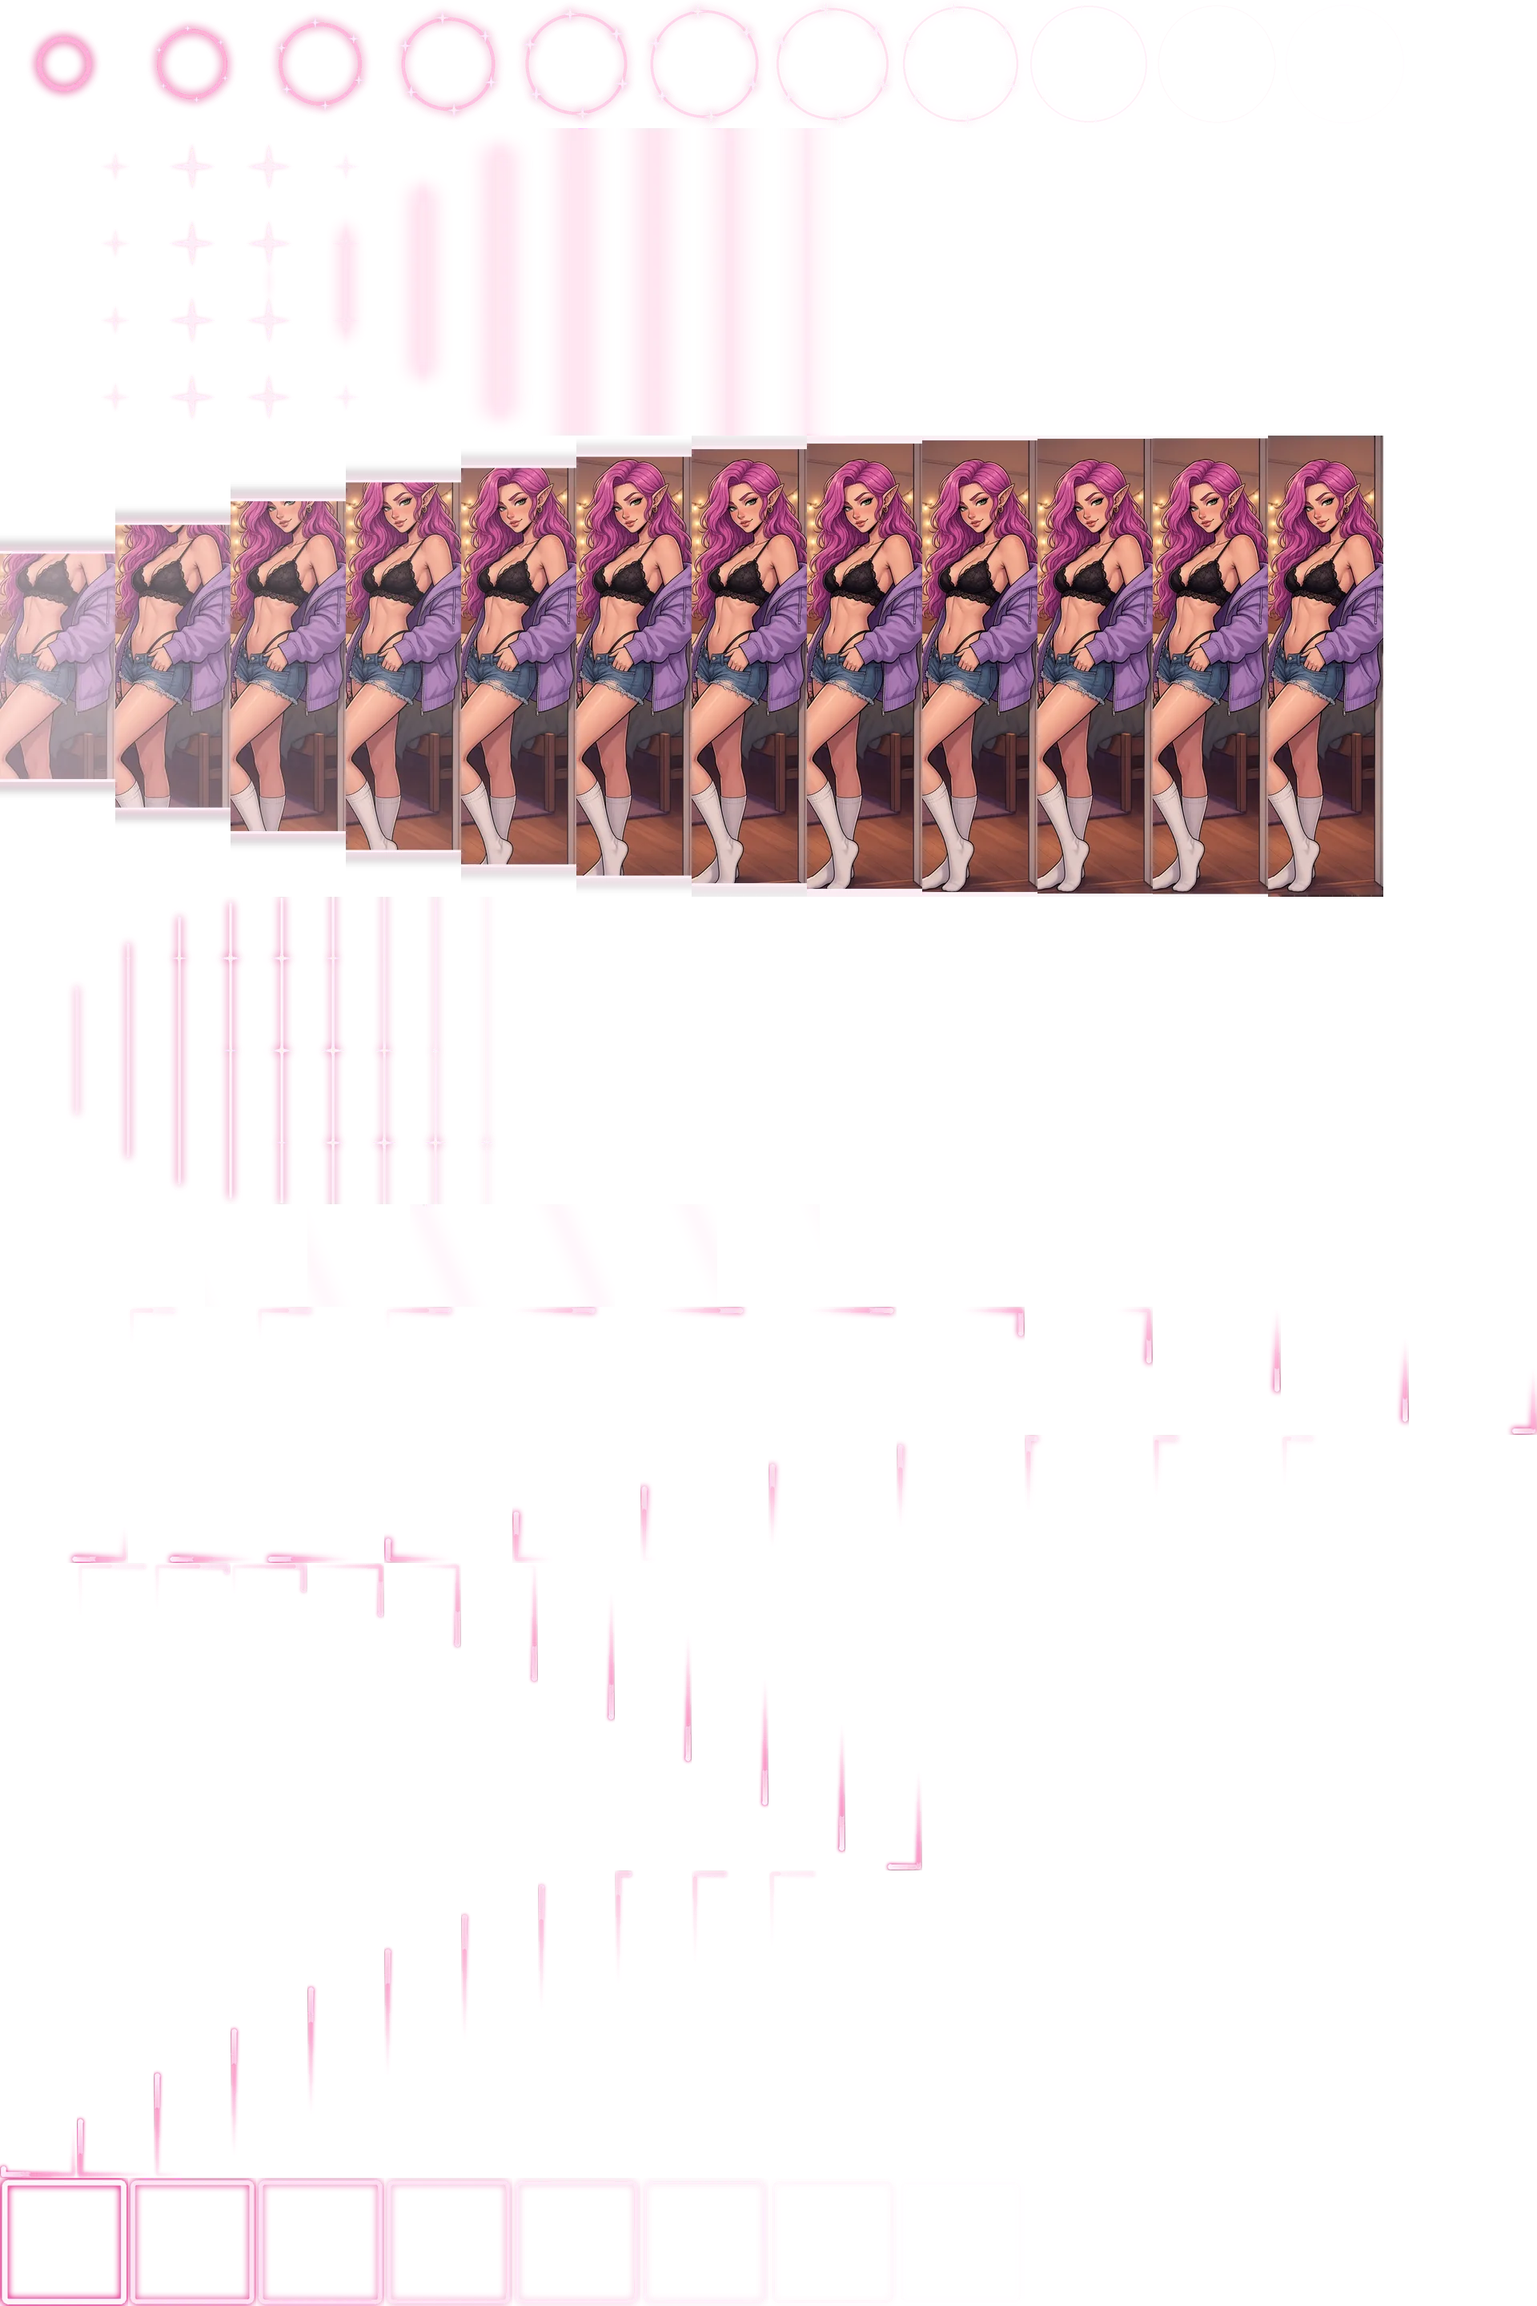
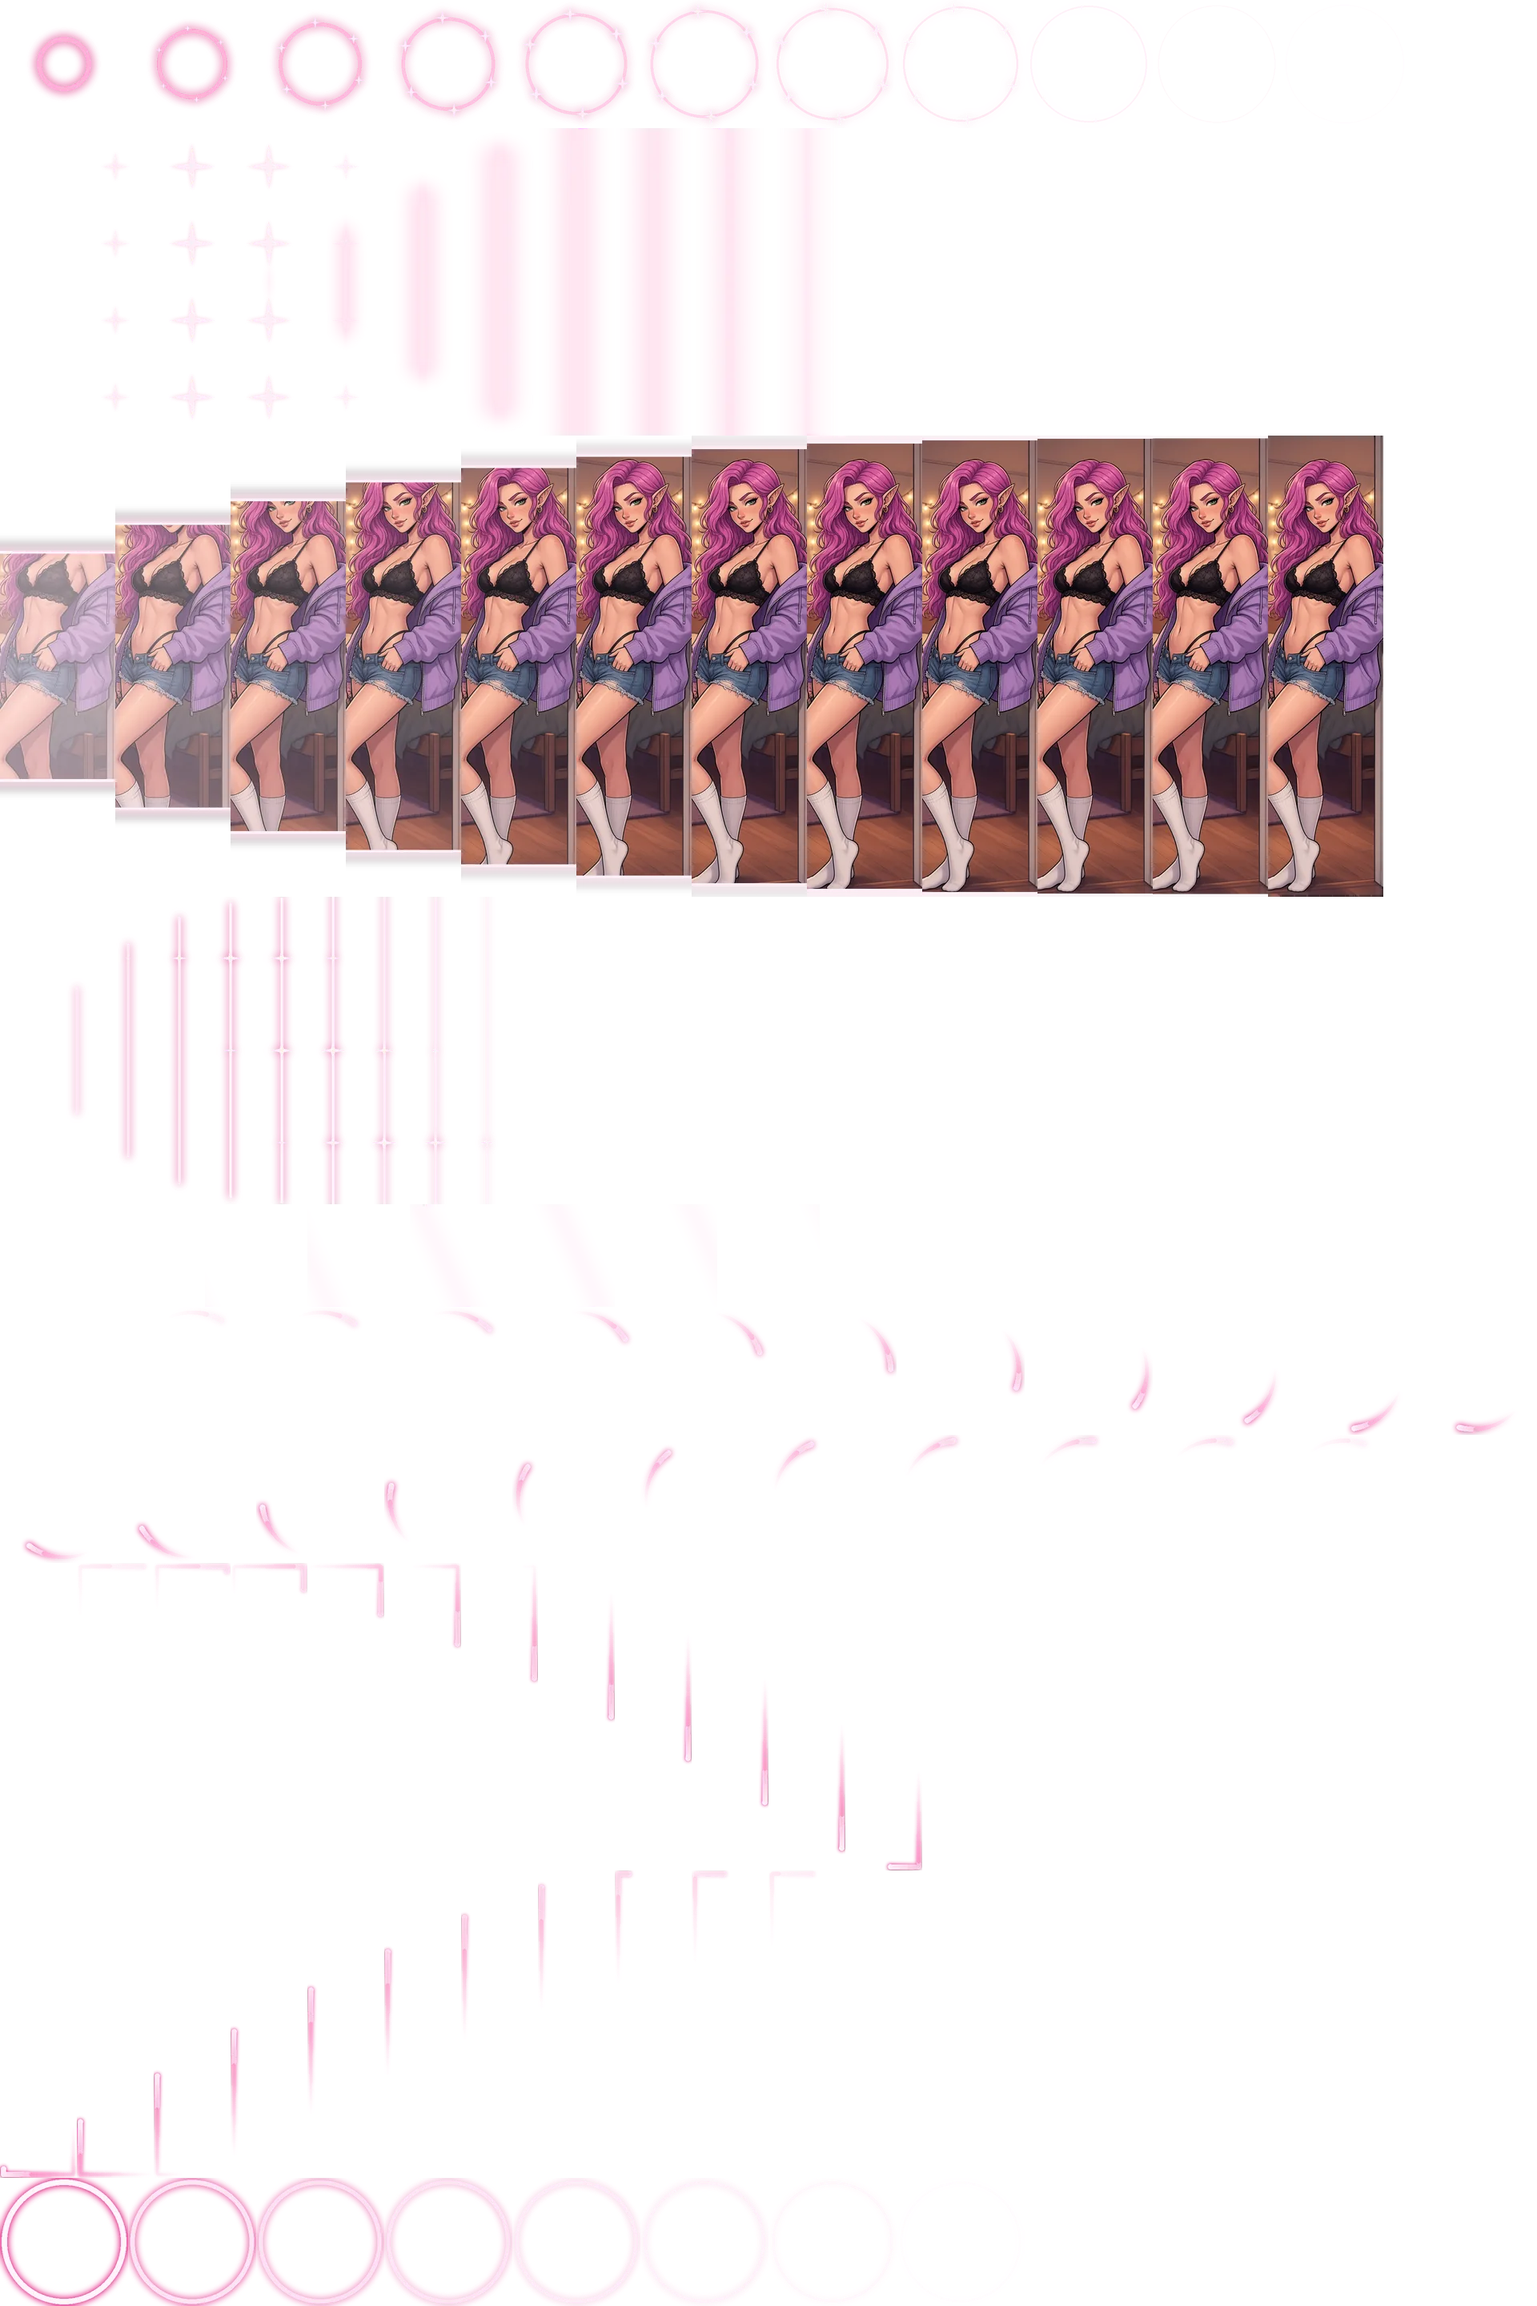
elfhaus pass4: wild frame + wild transform sprites
- bright round wild frame (magenta core, white highlight, soft outer pink; static gradient ring, no filter/shadow
  animation), round locked ring to match the round symbols
- fx_wild wired: land flash + ring/sparkles on every newly landed wild (reveal + respin), stack formation light
  column, full-reel expand unfurl + comet, merge seams + sweep
- one shared shimmer scheduler (a comet round one visible wild every ~1.6 s, max 2 at once, paused while spinning,
  during win lines, or when hidden); wshine/wflash regenerated as circular paths

diff --git a/frontend/apps/elfhaus/src/game/wildfx.ts b/frontend/apps/elfhaus/src/game/wildfx.ts
@@ -1,0 +1,61 @@
+// Wild moments (fx_wild sheet, gen_fx_wild.py). Every effect is a pre-baked sprite (glow baked in) on a pooled
+// canvas; only transform/opacity are animated by CSS, nothing animates filter or shadow.
+//   wildLand(cell)   : the round frame flares (wflash) + a soft ring and six sparkles (wland) when a wild lands
+//   stackForm(reel)  : four row flashes pull into one light column as a reel fills with wilds
+//   wfExpand(ov)     : the full-reel wild unfurls from the middle rows (bakes the real WF art)
+//   mergeFx(reels)   : light seams close between adjacent full reels + one soft sweep over the merged group
+//   shimmer          : ONE shared scheduler; every ~1.6 s the next visible wild gets a single comet round its
+//                      frame (so each wild shimmers every few seconds), at most 2 at once, paused while the reels
+//                      spin, during win lines, or when the tab is hidden
+import { play, hasSheet } from './sprite';
+import { S, $ } from './ui';
+import { isSpinning } from './reels';
+import { linesActive } from './winlines';
+const ID = 'fx_wild';
+const ok = () => hasSheet(ID);
+
+export function wildLand(cell: HTMLElement) {
+	if (!ok()) return;
+	cell.classList.remove('wLand'); void cell.offsetWidth; cell.classList.add('wLand');
+	play(ID, 'wflash', cell, { cls: 'wfx wfxRing' });
+	play(ID, 'wland', cell, { cls: 'wfx wfxBurst', onEnd: () => cell.classList.remove('wLand') });
+}
+function column(r: number) {
+	const d = document.createElement('div'); d.className = 'wfxCol';
+	d.style.left = r * S.cell + 'px'; d.style.width = S.cell + 'px';
+	$('#board').appendChild(d); return d;
+}
+export function stackForm(reel: number) {
+	if (!ok()) return Promise.resolve();
+	const host = column(reel);
+	return new Promise<void>((res) => { if (!play(ID, 'stackform', host, { cls: 'wfx', onEnd: () => { host.remove(); res(); } })) { host.remove(); res(); } });
+}
+export function wfExpand(ov: HTMLElement | null) {
+	if (!ok() || !ov) return;
+	ov.classList.add('wfxOpen');
+	play(ID, 'wfexpand', ov, { cls: 'wfx wfxIn', onEnd: () => ov.classList.remove('wfxOpen') });
+	play(ID, 'wshineT', ov, { cls: 'wfx wfxIn wfxTop', delay: 420 });
+}
+export function mergeFx(reels: number[]) {
+	if (!ok() || reels.length < 2) return;
+	const lo = Math.min(...reels), hi = Math.max(...reels);
+	for (let r = lo + 1; r <= hi; r++) { const h = column(r); h.classList.add('seam'); play(ID, 'seam', h, { cls: 'wfx', onEnd: () => h.remove() }); }
+	const g = column(lo); g.style.width = (hi - lo + 1) * S.cell + 'px';
+	play(ID, 'msweep', g, { cls: 'wfx', delay: 180, onEnd: () => g.remove() });
+}
+
+// ---- shared shimmer scheduler ----
+let timer = 0, turn = 0;
+function visibleWilds(): HTMLElement[] {
+	const singles = [...document.querySelectorAll<HTMLElement>('#cells .cell.wild')].filter((c) => c.style.visibility !== 'hidden' && !c.classList.contains('dim') && !c.querySelector('canvas.wfxShine'));
+	const fulls = [...document.querySelectorAll<HTMLElement>('#overlays .ov.full')].filter((o) => !o.querySelector('canvas.wfxShine'));
+	return [...singles, ...fulls];
+}
+function step() {
+	timer = window.setTimeout(step, S.turbo ? 1200 : 1600);
+	if (document.hidden || isSpinning() || linesActive() || document.querySelectorAll('canvas.wfxShine').length >= 2) return;
+	const w = visibleWilds(); if (!w.length || !ok()) return;
+	const el = w[turn++ % w.length], full = el.classList.contains('ov');
+	play(ID, full ? 'wshineT' : 'wshine', el, { cls: 'wfx wfxShine' + (full ? ' wfxIn wfxTop' : ' wfxRing') });
+}
+export function startShimmer() { if (!timer) timer = window.setTimeout(step, 2000); }

diff --git a/frontend/apps/elfhaus/src/game/bookEventHandlerMap.ts b/frontend/apps/elfhaus/src/game/bookEventHandlerMap.ts
@@ -9,6 +9,7 @@ import { mxBurst, lockFx, clearSymWins } from './fx';
 import { timing, isSpinning, startSpin, markStopped, sinceStart, sleep, spinCells, stopReel } from './reels';
 import { $, S, k, bet, wait, banner, toast, hideToast, bigWin, setWinMeter, clearLines, renderCell, renderOverlays, cellEl, setGem, ovMx, symHTML } from './ui';
 import { playWins } from './winlines';
+import { wildLand, stackForm, wfExpand, mergeFx } from './wildfx';
 import { grab, combineInto } from './combine';
 
 const TL = (t: Tier) => TIER_LABEL[t].toUpperCase();
@@ -49,6 +50,7 @@ export const bookEventHandlerMap: Handlers = {
 					const locked = lockedSingles.has(k(r, row));
 					renderCell(r, row, null);
 					cellEl(r, row).classList.toggle('locked', locked);
+					if (!locked && !fullLocked.has(r) && S.sym[r][row] === 'W') wildLand(cellEl(r, row));
 				}
 			}));
 		}
@@ -58,10 +60,12 @@ export const bookEventHandlerMap: Handlers = {
 	},
 	async stackComplete(ev) {
 		// the four wild values ADD into the stack's value (SPEC: sum of the 4 cell values)
+		if (!ev.instant) await stackForm(ev.reel);
 		const flying = grab([0, 1, 2, 3].map((row) => cellEl(ev.reel, row).querySelector<HTMLElement>('.mx')));
 		S.full.set(ev.reel, ev.value);
 		for (let row = 0; row < ROWS; row++) { S.vals.delete(k(ev.reel, row)); cellEl(ev.reel, row).style.visibility = 'hidden'; }
 		renderOverlays(ev.reel);
+		if (!ev.instant) wfExpand(document.querySelector<HTMLElement>(`.ov.full[data-reel="${ev.reel}"]`));
 		await combineInto(flying, ovMx(ev.reel));
 		await wait(250);
 	},
@@ -71,6 +75,7 @@ export const bookEventHandlerMap: Handlers = {
 		const flights = fresh.map((g) => ({ g, c: grab(g.reels.map((r) => ovMx(r))) }));
 		S.groups = ev.groups.map((g) => ({ reels: [...g.reels], values: [...g.values], product: g.product }));
 		renderOverlays(fresh.length > 0);
+		fresh.forEach((g) => mergeFx(g.reels));
 		await Promise.all(flights.map(({ g, c }) => combineInto(c, ovMx(g.reels[0]))));
 		if (fresh.length) await wait(250);
 	},
@@ -121,7 +126,7 @@ export const bookEventHandlerMap: Handlers = {
 			if (i) at += T.gap;
 			const rows = ev.newSymbols.filter((s) => s.reel === r).map((s) => s.row);
 			const finals = Array.from({ length: ROWS }, (_, row) => symHTML(S.sym[r][row], S.vals.get(k(r, row))));
-			return stopReel(r, at, finals, () => rows.forEach((row) => renderCell(r, row, null)));
+			return stopReel(r, at, finals, () => rows.forEach((row) => { renderCell(r, row, null); if (S.sym[r][row] === 'W') wildLand(cellEl(r, row)); }));
 		}));
 		markStopped();
 		await sleep(T.land);

diff --git a/frontend/apps/elfhaus/static/elfhaus.css b/frontend/apps/elfhaus/static/elfhaus.css
@@ -607,3 +607,21 @@ body.short:not(.portrait) #buyCards{margin:8px 0}
 .pl rect.on{fill:#C42A78;stroke:#F48FC0}
 .pl polyline{fill:none;stroke:#FFE6F2;stroke-width:1.6;stroke-linejoin:round;stroke-linecap:round;opacity:.9;filter:drop-shadow(0 0 1.5px #F06AAE)}
 body.portrait .plGrid{grid-template-columns:repeat(3,1fr);gap:6px} body.portrait .pl{padding:5px 6px;gap:4px} body.portrait .pl figcaption{font-size:11px}
+
+/* ---- wild: bright round frame (static ring painted once; no animated filter or shadow) + fx_wild sprites ---- */
+.cell.wild::before{content:"";position:absolute;inset:0;z-index:2;pointer-events:none;border-radius:50%;
+  background:radial-gradient(closest-side,transparent 80%,#F06AB033 84%,#E0409Acc 88.5%,#FFE6F2 91%,#F48FC0 93%,#C42A7899 95.5%,#C42A7833 98%,transparent 100%)}
+.cell.locked::after{inset:4%;border-radius:50%;border-width:2px}
+.cell.wLand .sym{animation:wPop .28s cubic-bezier(.3,1.6,.5,1)}
+@keyframes wPop{0%{transform:scale(.9)}100%{transform:none}}
+canvas.wfx{position:absolute;pointer-events:none;z-index:3}
+canvas.wfxRing{inset:-12%;width:124%;height:124%}
+canvas.wfxBurst{inset:-12%;width:124%;height:124%;z-index:4}
+canvas.wfxIn{inset:0;width:100%;height:100%;z-index:1}
+canvas.wfxTop{z-index:4}
+.wfxCol{position:absolute;top:0;height:100%;z-index:3;pointer-events:none}
+.wfxCol canvas.wfx{inset:0;width:100%;height:100%}
+.wfxCol.seam{width:calc(var(--cell)*.6)!important;transform:translateX(-50%)}
+.ov.full.art::before{content:"";position:absolute;inset:0;z-index:3;pointer-events:none;
+  box-shadow:inset 0 0 0 2px #FFE6F2,inset 0 0 0 4px #E0409A,inset 0 0 10px 4px #C42A7866}
+.ov.wfxOpen .wart{visibility:hidden}

diff --git a/frontend/apps/elfhaus/src/game/game.ts b/frontend/apps/elfhaus/src/game/game.ts
@@ -13,6 +13,7 @@ import {
 import { money, mult, setCurrency, setLocale, isSocialCurrency, amountStr } from './format';
 import { skipCounts } from './countup';
 import { tapLines } from './winlines';
+import { startShimmer } from './wildfx';
 import { setSocial, isSocial, t } from './strings';
 import { $, S, ART, bet, buildCells, renderAll, renderOverlays, resetWinMeter, setWinMeter, banner, wait } from './ui';
 import { playBookEvents, endBonusUi } from './bookEventHandlerMap';
@@ -400,6 +401,7 @@ export async function initGame() {
 	setLocale(url.lang);
 	initLoader(); preloadArt();
 	// any tap lands a running count-up on its final value (the big-win banner handles its own taps)
+	startShimmer();
 	document.addEventListener('pointerdown', (e) => { if (!(e.target as Element)?.closest?.('#bigwin')) { skipCounts(); tapLines(); } }, { capture: true, passive: true });
 	track(initRoxy(layout));
 	loadAllFx(track).then(() => renderAll());

diff --git a/frontend/apps/elfhaus/scripts/sprites/gen_fx_wild.py b/frontend/apps/elfhaus/scripts/sprites/gen_fx_wild.py
@@ -7,9 +7,9 @@ the full-reel expand bakes the real WF art so the unfurl ends exactly on the sta
   wfexpand  12f 144x576 @30 once : WF art unfurls from the middle rows with bright edges        (inside the overlay)
   seam      12f  64x384 @30 once : a seam of light closes between two adjacent reels           (at each boundary)
   msweep    10f 128x128 @30 once : soft diagonal light band crossing a merged group (gradient only, stretched)
-  wshine    24f 160x160 @30 once : a short bright comet runs once round the wild frame (periodic shimmer)
+  wshine    24f 160x160 @30 once : a short bright comet runs once round the round wild frame (periodic shimmer)
   wshineT   24f  96x384 @30 once : the same comet round a full-reel wild's frame
-  wflash    10f 160x160 @30 once : the wild frame flares white-pink on land, then settles to the static frame
+  wflash    10f 160x160 @30 once : the round wild frame flares white-pink on land, then settles to the static frame
 Usage: python3 scripts/sprites/gen_fx_wild.py"""
 import math, os, sys
 from PIL import Image, ImageDraw, ImageFilter
@@ -121,14 +121,18 @@ def perim(W, H, ins, u):
     if d < w: return W - ins - d, H - ins
     d -= w; return ins, H - ins - d
 
-def shine(n, W, H, ins_frac):
+def circ(W, H, ins, u):
+    c = W / 2; r = c - ins; a = -math.pi / 2 + 2 * math.pi * u
+    return c + r * math.cos(a), H / 2 + r * math.sin(a)
+
+def shine(n, W, H, ins_frac, round_=False):
     out = []
     for i in range(n):
         t = i / (n - 1); im = cv(W, H); d = ImageDraw.Draw(im)
         env = math.sin(t * math.pi) ** 0.6; ins = ins_frac * W * SS; head = 0.08 + 0.98 * ease_io(t)
         for k in range(72):  # comet: head bright, tail fading over ~18% of the perimeter
             f = k / 71; u = head - f * 0.18
-            x, y = perim(W * SS, H * SS, ins, u); r = SS * (3.2 - 2.2 * f)
+            x, y = (circ if round_ else perim)(W * SS, H * SS, ins, u); r = SS * (3.2 - 2.2 * f)
             a = int(255 * env * (1 - f) ** 1.6)
             if a > 3: d.ellipse([x - r, y - r, x + r, y + r], fill=rgba(WHITE if f < .25 else PINKL, a))
         out.append(fin(im, W, H, 1.2 * env, MAG, 0.05))
@@ -140,7 +144,7 @@ def wflash(n=10, S=192):
         t = i / (n - 1); im = cv(S, S); d = ImageDraw.Draw(im); a = (1 - t) ** 1.4
         ins = (0.035 - 0.02 * (1 - t)) * S * SS; wd = int(SS * (2 + 5 * (1 - t)))
         if a > .02:
-            d.rounded_rectangle([ins, ins, S * SS - ins, S * SS - ins], radius=SS * 8, outline=rgba(WHITE, int(255 * a)), width=wd)
+            d.ellipse([ins, ins, S * SS - ins, S * SS - ins], outline=rgba(WHITE, int(255 * a)), width=wd)  # symbols are round
         out.append(fin(im, S, S, 1.4 * a, MAG, 0.06))
     return out
 
@@ -148,4 +152,4 @@ if __name__ == '__main__':
     # sized for phones (a phone cell is ~70 CSS px): ~1920x2880, one shared sheet
     pack('fx_wild', {'wland': (wland(12, 160), 30, False), 'stackform': (stackform(12, 96, 384), 30, False), 'wfexpand': (wfexpand(12, 144, 576), 30, False),
                      'seam': (seam(12, 64, 384), 30, False), 'msweep': (msweep(10, 128), 30, False),
-                     'wshine': (shine(24, 160, 160, 0.03), 30, False), 'wshineT': (shine(24, 96, 384, 0.045), 30, False), 'wflash': (wflash(10, 160), 30, False)}, cols=12, quality=82)
+                     'wshine': (shine(24, 160, 160, 0.045, True), 30, False), 'wshineT': (shine(24, 96, 384, 0.045), 30, False), 'wflash': (wflash(10, 160), 30, False)}, cols=12, quality=82)
